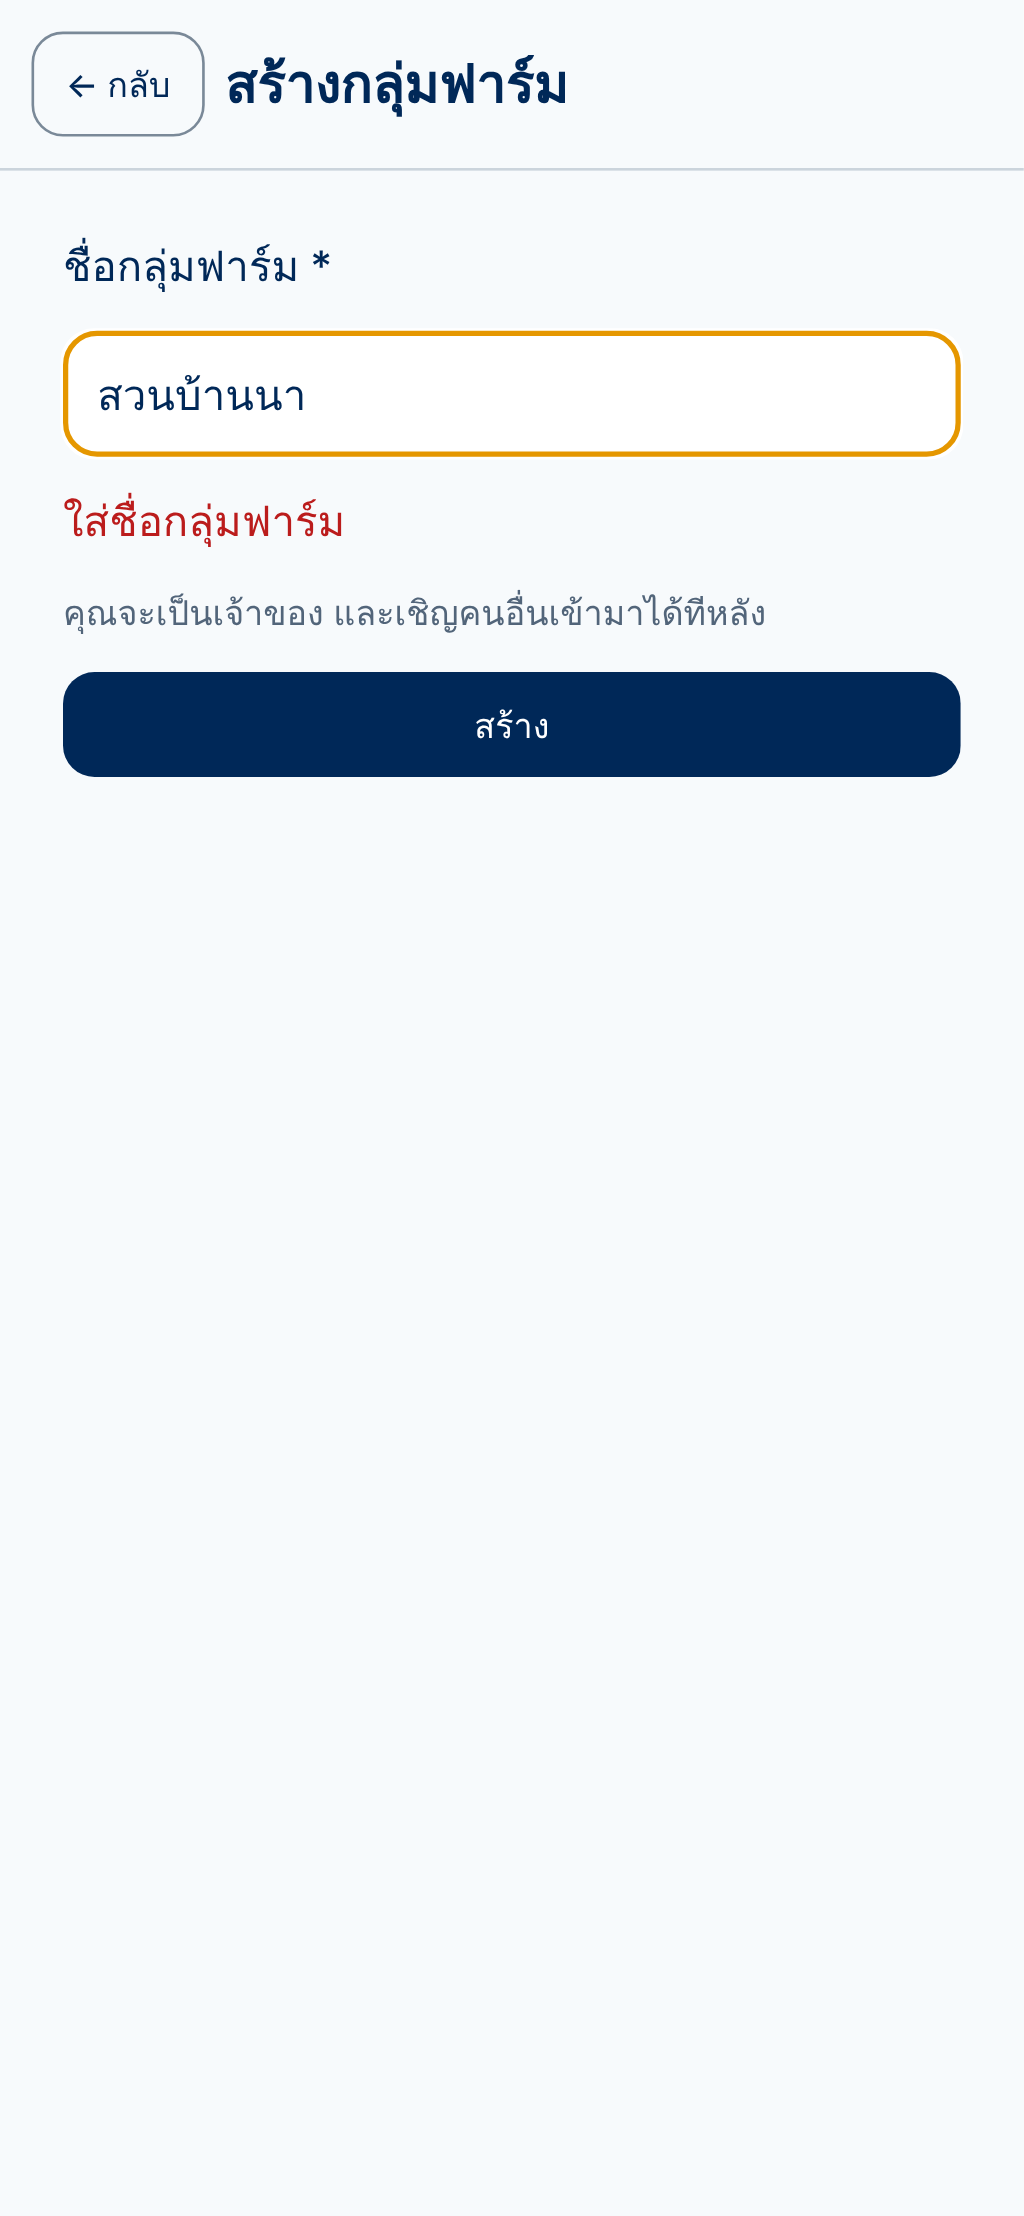
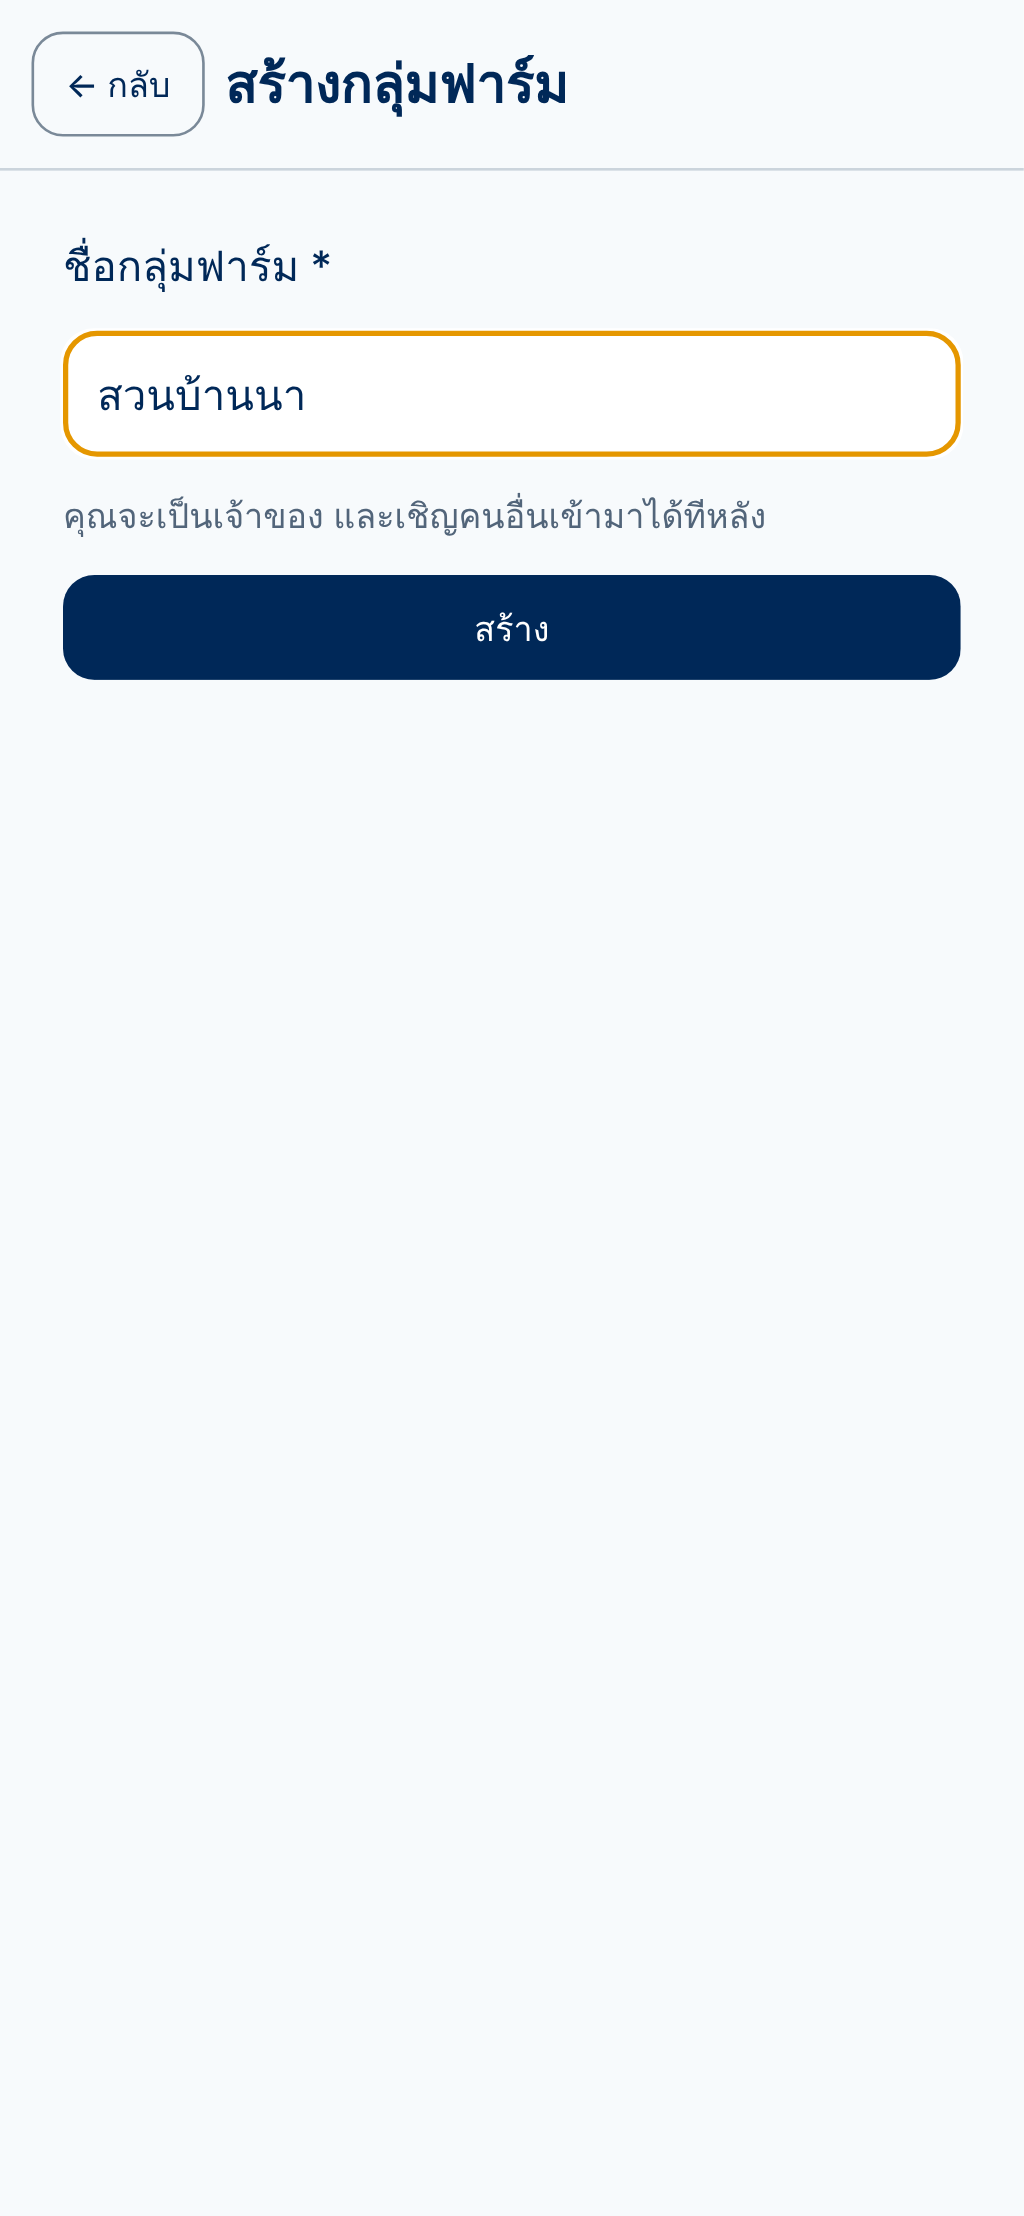
fix(groups): clear name error once name is valid
Review F8. The "name required" message only cleared on the next
submit, so it stayed red under a name that was already fine - the
s02-create-group screenshot showed exactly that. It now clears as
soon as the typed name is non-blank; a still-blank edit keeps it.

Screenshot retaken from the e2e run; groups.spec asserts the message
is gone before capturing it.

Claude-Session: https://claude.ai/code/session_01BrQFijBALS9rgmeSXBsPpn

Changed region(s): [[0.0625, 0.218, 0.9375, 0.3736]]

diff --git a/src/__tests__/account-gate.test.tsx b/src/__tests__/account-gate.test.tsx
@@ -252,6 +252,13 @@ describe('AccountGate — E02-S02 farm groups', () => {
     await flush();
     expect(screen.getByText('ใส่ชื่อกลุ่มฟาร์ม')).toBeTruthy();
     expect(await accounts.memberships()).toEqual([]);
+
+    // Still blank: the message stays.
+    fireEvent.changeText(screen.getByTestId('group-name'), '    ');
+    expect(screen.getByText('ใส่ชื่อกลุ่มฟาร์ม')).toBeTruthy();
+    // It goes as soon as the name is valid, not on the next submit (review F8).
+    fireEvent.changeText(screen.getByTestId('group-name'), 'ส');
+    expect(screen.queryByText('ใส่ชื่อกลุ่มฟาร์ม')).toBeNull();
   });
 
   it('back from the form returns to the start choices', async () => {

diff --git a/e2e/groups.spec.ts b/e2e/groups.spec.ts
@@ -29,6 +29,8 @@ test('create a farm group, then reopen offline straight into it', async ({ page,
   // Created with no network at all: the id is minted on the device.
   await context.setOffline(true);
   await page.getByTestId('group-name').fill('สวนบ้านนา');
+  // A valid name clears the earlier message at once (review F8).
+  await expect(page.getByTestId('group-problem')).toHaveCount(0);
   await page.screenshot({ path: `${SHOTS}/s02-create-group.png` });
   await page.getByTestId('group-submit').click();
   await expect(page.getByTestId('empty-state')).toBeVisible();

diff --git a/src/components/GroupStartScreen.tsx b/src/components/GroupStartScreen.tsx
@@ -116,7 +116,11 @@ export function GroupStartScreen({
         <TextInput
           testID="group-name"
           value={name}
-          onChangeText={setName}
+          onChangeText={(next) => {
+            setName(next);
+            // Once the name is valid the "name required" message is stale.
+            if (problem === 'nameRequired' && next.trim()) setProblem(null);
+          }}
           placeholder={msg('group.nameHint')}
           placeholderTextColor={t.color.inkFaint}
           accessibilityLabel={msg('group.nameLabel')}
